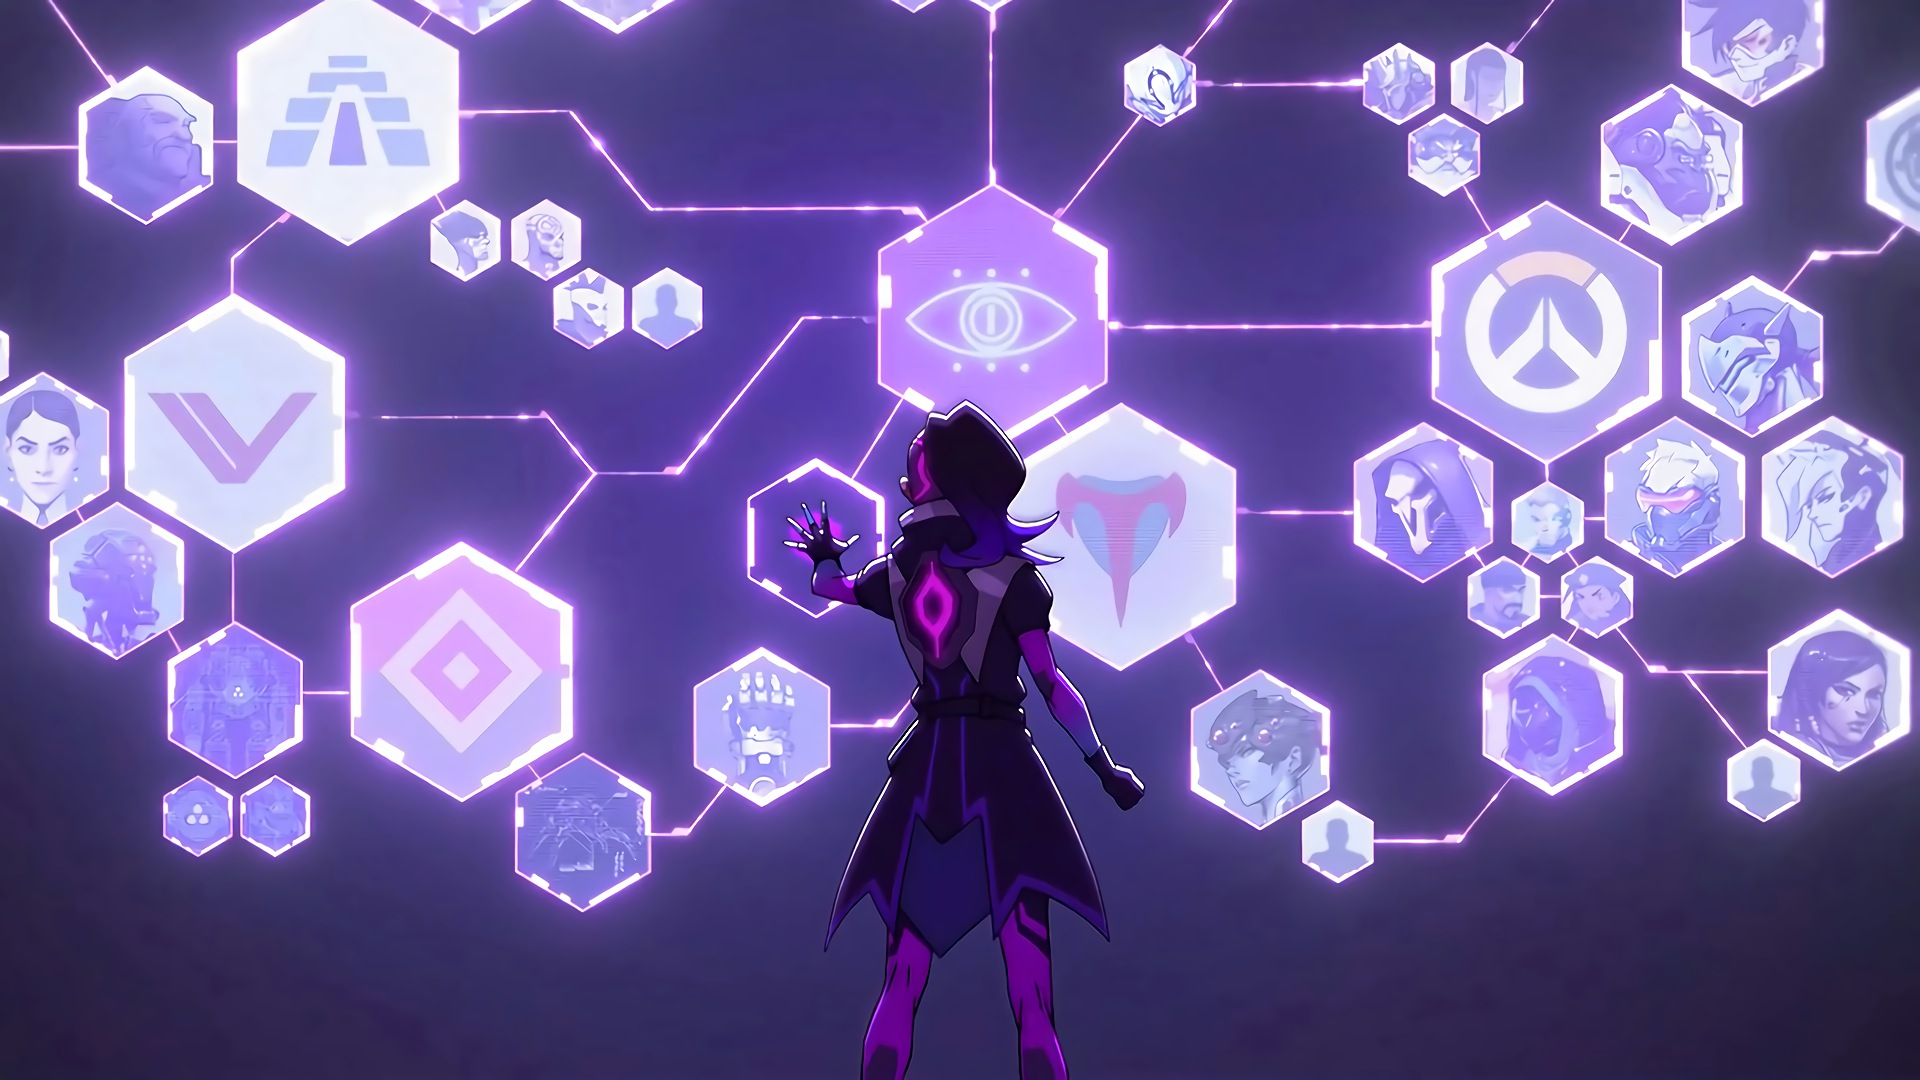
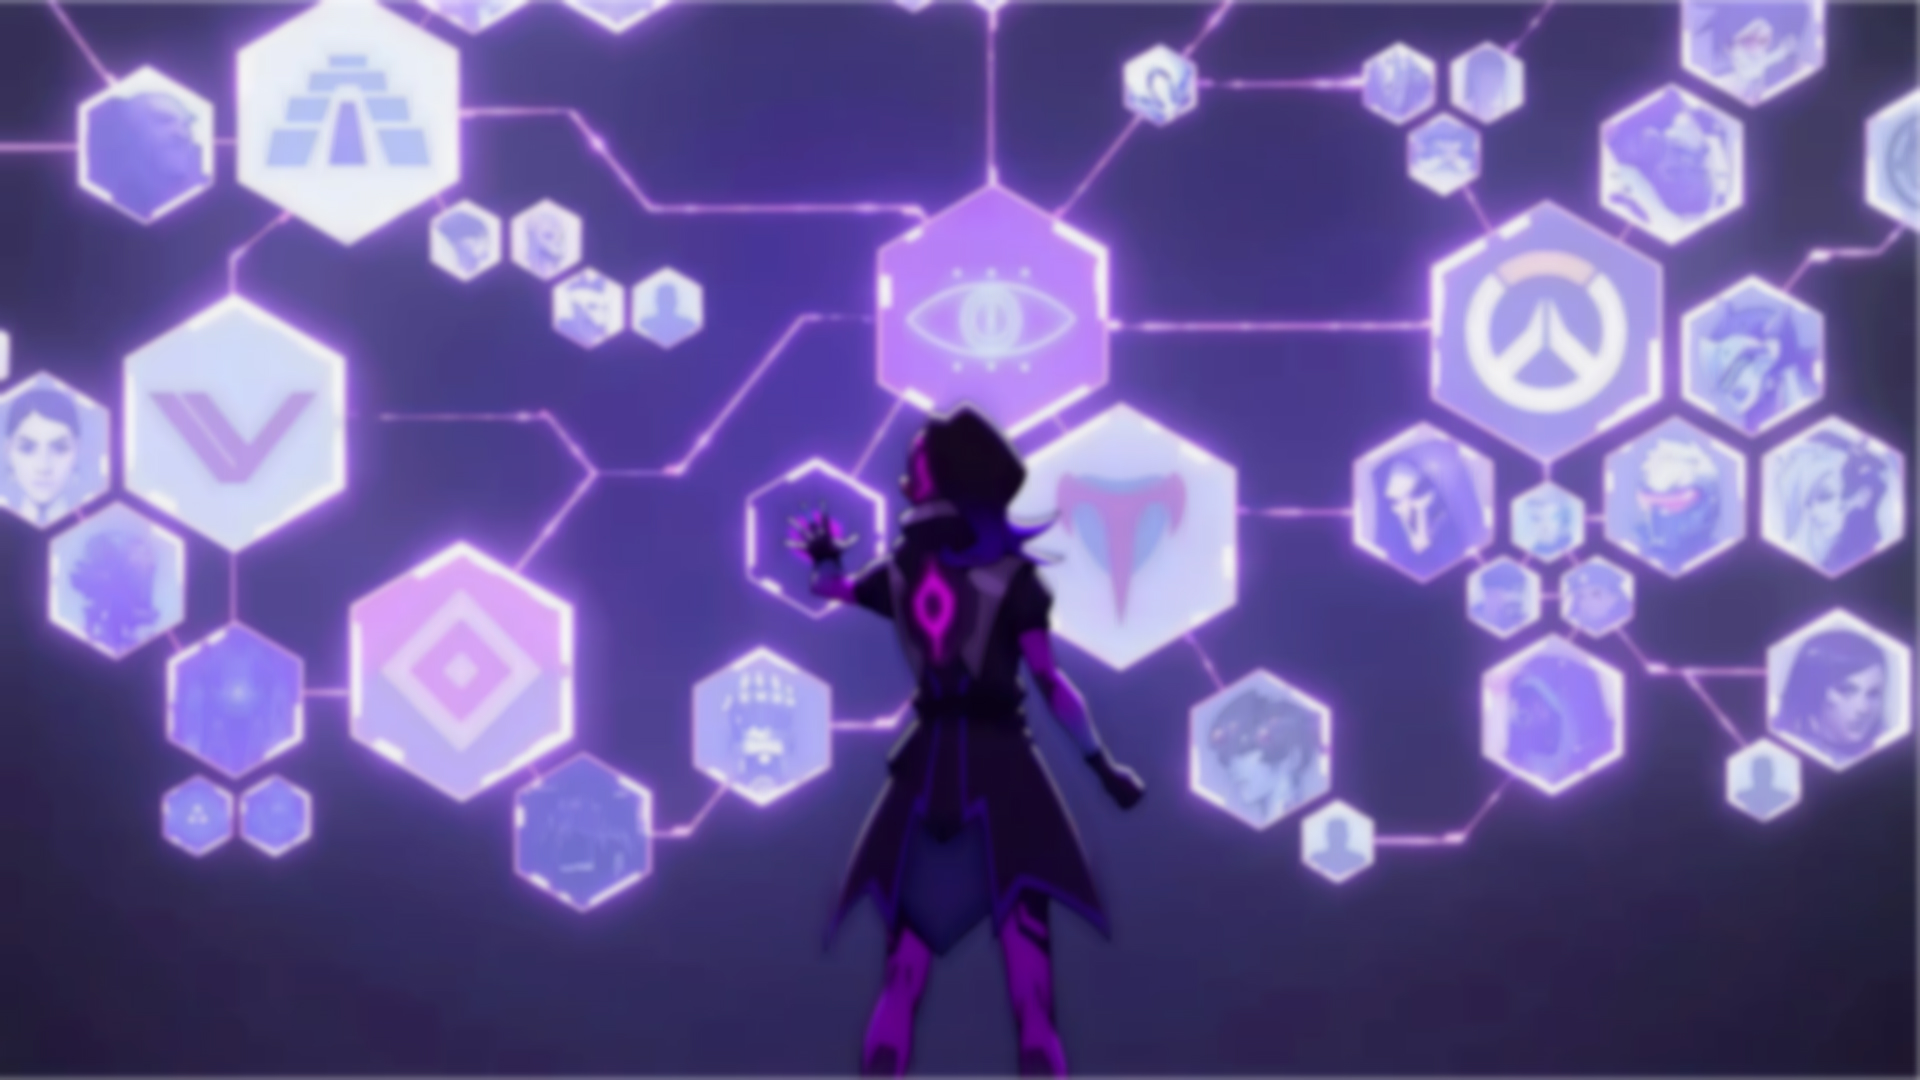
Change blur from css base to just image

diff --git a/_includes/sass/home.sass b/_includes/sass/home.sass
@@ -1,13 +1,13 @@
 #home
-  height: 100vh
+  height: calc(100vh + 5px)
 
   #home-bg
     position: absolute
     top: 0
-    left: -4px
+    left: 0
     height: inherit
-    width: calc(100% + 4px)
-    filter: blur(2px)
+    width: 100%
+    z-index: -1
     background:
       image: url(../images/covers/home.jpg)
       size: cover
@@ -33,8 +33,8 @@
         font-size: 30px
         text-align: center
 
-  #header-fix
+  #social-header
     position: absolute
     bottom: 0
-    height: 120px
+    height: 110px
     width: 100%

diff --git a/_includes/sass/social.sass b/_includes/sass/social.sass
@@ -3,8 +3,8 @@
   justify-content: space-around
   align-items: center
   flex-wrap: wrap
-  margin-top: -10px
   padding-bottom: 80px
+  margin-top: -5px
   background:
     image: url(../images/covers/social.png)
     size: cover
